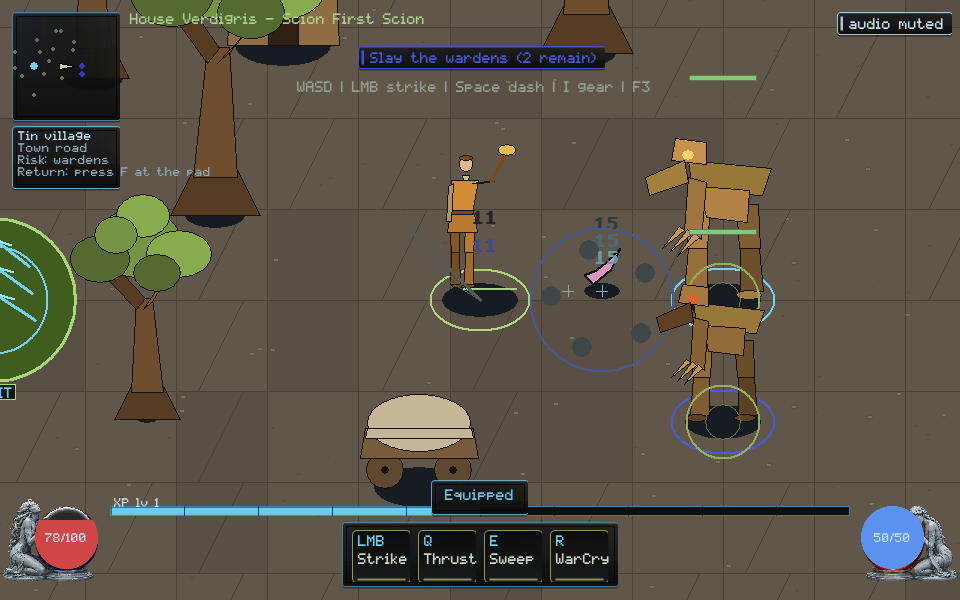
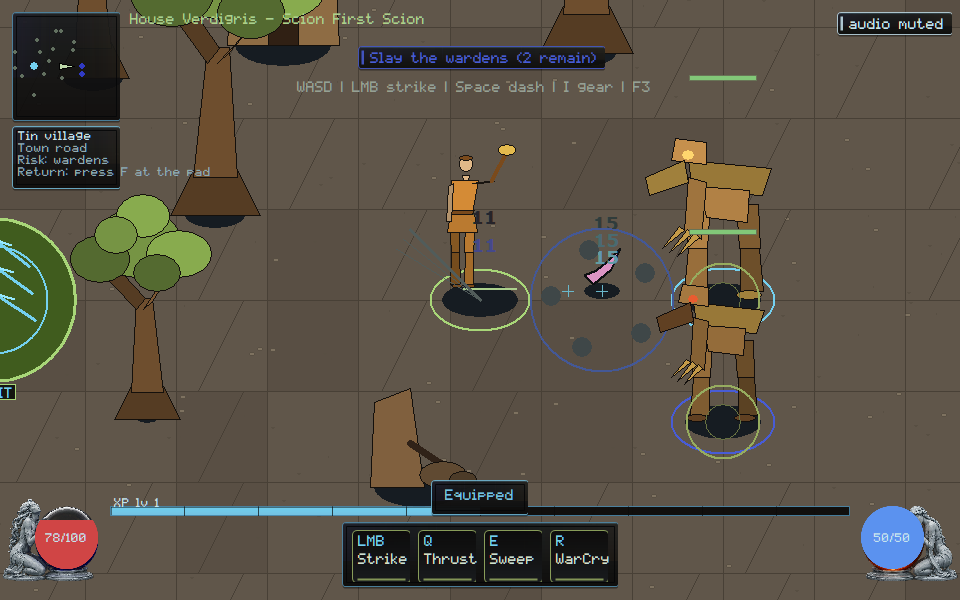
native: draw tin village ruins as a broken wall, not a wagon
A covered wagon cannot certify SceneryKind::Ruin; shipped town ruins are a one-sided wall, fallen timber, and rubble.

Changed region(s): [[0.375, 0.63, 0.5, 0.81]]

diff --git a/native/client/vector_art.hpp b/native/client/vector_art.hpp
@@ -828,6 +828,46 @@ inline void dwelling(HDC dc, int cx, int base_y, int height_px, COLORREF wall,
   fill_poly(dc, door, 4, trim, dark);
 }
 
+inline constexpr bool kRuinHasBrokenWall = true;
+inline constexpr bool kRuinHasRubble = true;
+inline constexpr bool kRuinHasWheels = false;
+
+inline bool wagon_ruin_fails_review(bool broken_wall, bool rubble, bool wheels) {
+  return !broken_wall || !rubble || wheels;
+}
+
+// Collapsed bronze-age house: one standing wall, fallen timber, rubble.
+// A covered wagon cannot certify SceneryKind::Ruin. A complete hut with
+// a pitched roof also cannot — the right side is gone.
+inline void ruin(HDC dc, int cx, int base_y, int height_px, COLORREF wall,
+                 COLORREF rubble, COLORREF timber) {
+  const double s = height_px / 100.0;
+  const COLORREF dark = RGB(20, 16, 12);
+  const int left = cx - std::max(8, static_cast<int>(20 * s));
+  const int mid = cx - std::max(2, static_cast<int>(4 * s));
+  const int wall_h = std::max(14, static_cast<int>(40 * s));
+  const int step_h = std::max(6, static_cast<int>(14 * s));
+  POINT stub[5] = {{left, base_y},
+                   {mid + std::max(2, static_cast<int>(6 * s)), base_y},
+                   {mid + std::max(1, static_cast<int>(4 * s)), base_y - step_h},
+                   {mid, base_y - wall_h},
+                   {left + std::max(1, static_cast<int>(2 * s)),
+                    base_y - wall_h + std::max(2, static_cast<int>(6 * s))}};
+  fill_poly(dc, stub, 5, wall, dark);
+  line(dc, mid, base_y - std::max(8, static_cast<int>(18 * s)),
+       cx + std::max(8, static_cast<int>(18 * s)),
+       base_y - std::max(2, static_cast<int>(4 * s)), timber,
+       std::max(2, static_cast<int>(3 * s)));
+  fill_ell(dc, cx + std::max(4, static_cast<int>(10 * s)),
+           base_y - std::max(2, static_cast<int>(5 * s)),
+           std::max(5, static_cast<int>(10 * s)),
+           std::max(3, static_cast<int>(6 * s)), rubble, dark);
+  fill_ell(dc, cx + std::max(8, static_cast<int>(18 * s)),
+           base_y - std::max(1, static_cast<int>(3 * s)),
+           std::max(3, static_cast<int>(6 * s)),
+           std::max(2, static_cast<int>(4 * s)), shade(rubble, 0.8), dark);
+}
+
 inline void market_stall(HDC dc, int cx, int base_y, int height_px,
                          COLORREF canvas, COLORREF wood) {
   const double s = height_px / 100.0;

diff --git a/native/client/main.cpp b/native/client/main.cpp
@@ -2516,8 +2516,8 @@ void draw_scenery_item(const BillboardAssets& assets, HDC dc, const Camera& came
       break;
     case SceneryKind::Ruin:
       if (town) {
-        vector_art::wagon(dc, base.x, base.y, h, RGB(118, 92, 60),
-                          RGB(196, 182, 150));
+        vector_art::ruin(dc, base.x, base.y, h, RGB(128, 96, 62),
+                         RGB(96, 74, 50), RGB(48, 34, 24));
       } else {
         vector_art::standing_stones(dc, base.x, base.y, h,
                                     verdigris::art::bronze_stone::gdi_stone());
@@ -9845,6 +9845,12 @@ int scenario_kit_chunk() {
                      vector_art::kDwellingHasWalls, vector_art::kDwellingHasRoof,
                      vector_art::kDwellingHasDoor),
                  "kit-chunk: dwellings have walls, thatch, and a door");
+  scenario_check(vector_art::wagon_ruin_fails_review(false, false, true),
+                 "kit-chunk: a covered wagon cannot certify a ruin");
+  scenario_check(!vector_art::wagon_ruin_fails_review(
+                     vector_art::kRuinHasBrokenWall, vector_art::kRuinHasRubble,
+                     vector_art::kRuinHasWheels),
+                 "kit-chunk: ruins have a broken wall and rubble, not wheels");
 
   std::unordered_set<std::string> occupancy;
   bool unique_landmarks = true;
@@ -10349,6 +10355,12 @@ int scenario_visual_target() {
                      vector_art::kDwellingHasWalls, vector_art::kDwellingHasRoof,
                      vector_art::kDwellingHasDoor),
                  "visual-target: dwellings have walls, thatch, and a door");
+  scenario_check(vector_art::wagon_ruin_fails_review(false, false, true),
+                 "visual-target: a covered wagon cannot certify a ruin");
+  scenario_check(!vector_art::wagon_ruin_fails_review(
+                     vector_art::kRuinHasBrokenWall, vector_art::kRuinHasRubble,
+                     vector_art::kRuinHasWheels),
+                 "visual-target: ruins have a broken wall and rubble, not wheels");
   scenario_check(vector_art::crate_foe_fails_review(false, false, false),
                  "visual-target: a crate-shaped foe cannot certify the sheet");
   scenario_check(!vector_art::crate_foe_fails_review(

diff --git a/docs/execution/CROSSWALK.md b/docs/execution/CROSSWALK.md
@@ -135,7 +135,8 @@ VG-PERF-006: `warm_combat_glyphs` before first strike; scenario
 VG-UI-007: tooltip titles use ink-on-panel contrast plus a triangular mark.
 VG-ART-004: tin village kit (all five scenery kinds); solid pieces emit
 `collision-proxy:*`; dressing gate does not. Dwellings are mudbrick/thatch
-huts (walls, pitched roof, door); a scalloped stall cannot certify.
+huts (walls, pitched roof, door); a scalloped stall cannot certify. Ruins
+are a broken wall with rubble; a covered wagon cannot certify.
 Scenario `kit-chunk`. Evidence `docs/execution/evidence/VG-ART-004.json`.
 VG-ART-006: WarCry family `vfx-weave:cast|travel|impact|cancel`; radius
 capped vs screen-fill; telegraph remains. Scenario `weave-vfx`.

diff --git a/orchestration/CURSOR_KIMI_LANES.md b/orchestration/CURSOR_KIMI_LANES.md
@@ -414,3 +414,13 @@ Please move off that branch before taking a new native path.
 - **Stay off** `native/client/main.cpp` and `docs/execution/**`. SEC/CORE
   remain yours. GOV-002 still unstamped.
 
+## Cursor reply (2026-09-06, tin village ruins)
+
+- **Lease:** `main.cpp` still **ACTIVE**. `remote_session.cpp` stays
+  **RELEASED**. Do not re-spec TASK-0108 core/wire (`3b929637`).
+- **Landed this push:** VG-ART-004 — town ruins are a broken wall and
+  rubble, not a covered wagon. kit-chunk recaptured. Collision topology
+  unchanged. Not Owner Demo.
+- **Stay off** `native/client/main.cpp` and `docs/execution/**`. SEC/CORE
+  remain yours. GOV-002 still unstamped.
+

diff --git a/docs/rebuild/HANDOFF.md b/docs/rebuild/HANDOFF.md
@@ -1,5 +1,14 @@
 # Native reconstitution handoff
 
+## 2026-09-06 — tin village ruins as collapsed walls (Cursor)
+
+- VG-ART-004: town `SceneryKind::Ruin` paints a one-sided broken wall,
+  fallen timber, and rubble, not a covered wagon. Collision radii and
+  dressing-gate non-solidity are unchanged. `wagon` remains in
+  `vector_art.hpp` unused by the village kit.
+- Scenario `kit-chunk` / `visual-target` PASS. Capture viewed:
+  `docs/execution/captures/art-wave/kit-chunk-960x600.png`. Not Owner Demo.
+
 ## 2026-09-06 — tin village dwellings as huts (Cursor)
 
 - VG-ART-004: `SceneryKind::Dwelling` paints a mudbrick/thatch hut (walls,

diff --git a/docs/execution/CROSSWALK_REGISTRY.md b/docs/execution/CROSSWALK_REGISTRY.md
@@ -130,7 +130,7 @@ not implemented here.
 | VG-ART-001 | G1 | extend | visual-target in-game sheet |
 | VG-ART-002 | G2 | extend | bronze-stone family |
 | VG-ART-003 | G2 | extend | attack-poses; not TASK-0108 |
-| VG-ART-004 | G2 | extend | kit-chunk village kit; dwellings are huts not stalls |
+| VG-ART-004 | G2 | extend | kit-chunk village kit; huts not stalls; ruins not wagons |
 | VG-ART-005 | G3 | extend | held-item world attachment; paper-doll seat alone cannot pass |
 | VG-ART-006 | G3 | extend | weave-vfx; not TASK-0108 |
 | VG-ART-007 | G3 | extend | Owner Demo — do not duplicate |

diff --git a/native/client/assets/production/produce-one-environment-kit-chunk.md b/native/client/assets/production/produce-one-environment-kit-chunk.md
@@ -11,7 +11,8 @@ blocking uses the same `solid` set (`scenery_blocks_segment`).
 A circle-on-stick lollipop cannot certify the kit. Shipped trees are a
 forked bole with a root flare and clustered canopy. A scalloped market
 stall cannot certify a dwelling; shipped houses have walls, thatch, and
-a door.
+a door. A covered wagon cannot certify a ruin; shipped ruins have a
+broken wall and rubble.
 
 Acceptance command: `native/build/verdigris_client.exe --scenario kit-chunk`
 
